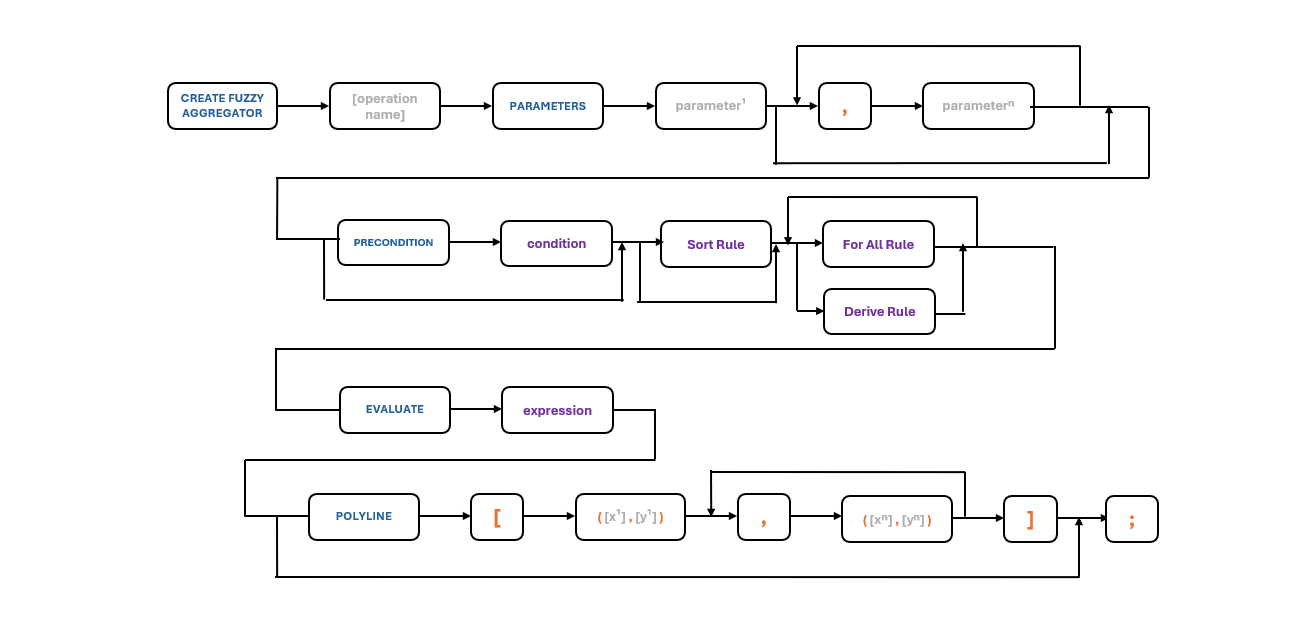
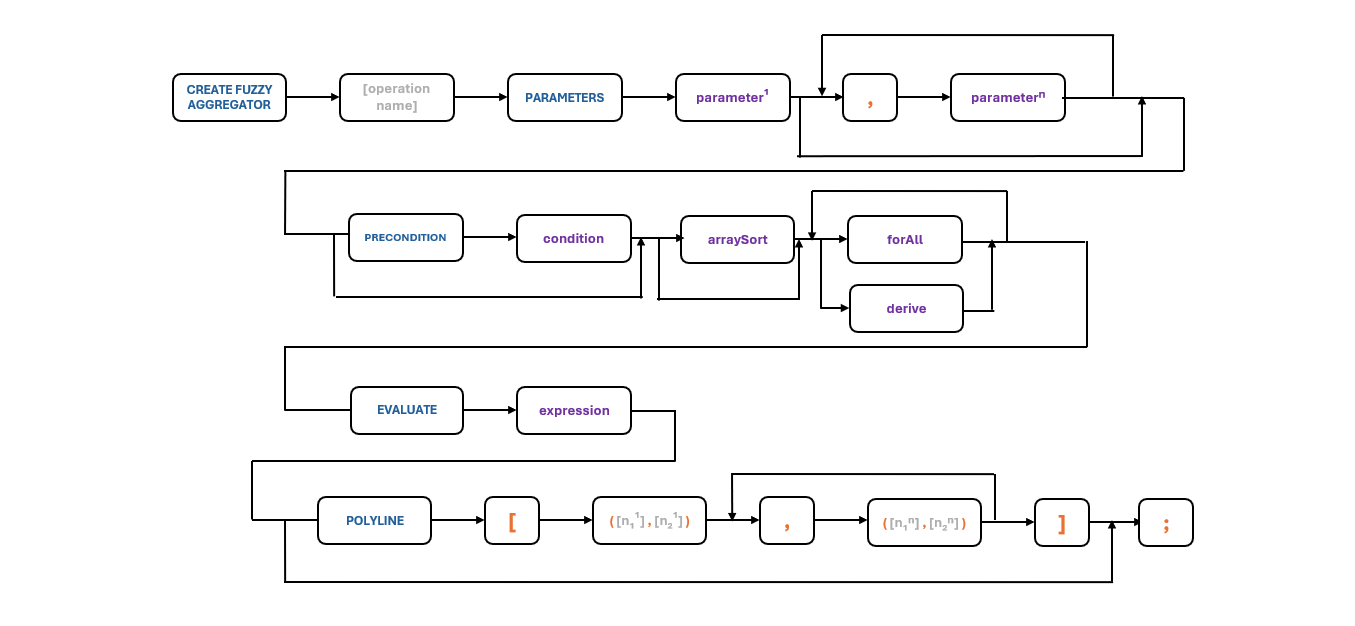
fix

diff --git a/languageSpecification/createFuzzyEvaluator.md b/languageSpecification/createFuzzyEvaluator.md
@@ -5,12 +5,13 @@ Create an evaluator that returns a fuzzy value form crips values.
 
 ## EBNF Notation
     createFuzzyEvaluator ::= CREATE FUZZY EVALUATOR id¹ 
-                                PARAMETERS parameter**
-                                [PRECONDITION condition]
+                                PARAMETERS parameter++
+                                [PRECONDITION condition]*
+                                [ arraySortRule | deriveRule | forAllRule ]*  
                                 EVALUATE expression
                                 [POLYLINE '[(' 
-                                    (x¹, y¹) **
-                                          ')]' ]
+                                    (n¹, n²) **
+                                          ')]' ]*
                           ;
 
 ## Syntax Diagram

diff --git a/languageSpecification/createFuzzyAggregator.md b/languageSpecification/createFuzzyAggregator.md
@@ -5,13 +5,13 @@ Create an aggregator tht returns a fuzzy value form crips values.
 
 ## EBNF Notation
     createFuzzyAggregator ::= CREATE FUZZY AGGREGATOR id¹ 
-                                PARAMETERS parameter**
+                                PARAMETERS parameter++
                                 [PRECONDITION condition]
                                 [SortRule]
                                 (ForAllRule | DeriveRule)**
                                 EVALUATE expression
                                 [POLYLINE '[(' 
-                                    (x¹, y¹) **
+                                    (x¹, n²) **
                                           ')]' ]
                           ;
 

diff --git a/languageSpecification/createFuzzyOperator.md b/languageSpecification/createFuzzyOperator.md
@@ -5,11 +5,11 @@ Create an operator tht returns a fuzzy value form crips values.
 
 ## EBNF Notation
     createFuzzyOperator ::= CREATE FUZZY OPERATOR id¹ 
-                                PARAMETERS parameter**
+                                PARAMETERS parameter++
                                 [PRECONDITION condition]
                                 EVALUATE expression
                                 [POLYLINE '[(' 
-                                    (x¹, y¹) **
+                                    (n¹, n²) **
                                           ')]' ]
                           ;
 
